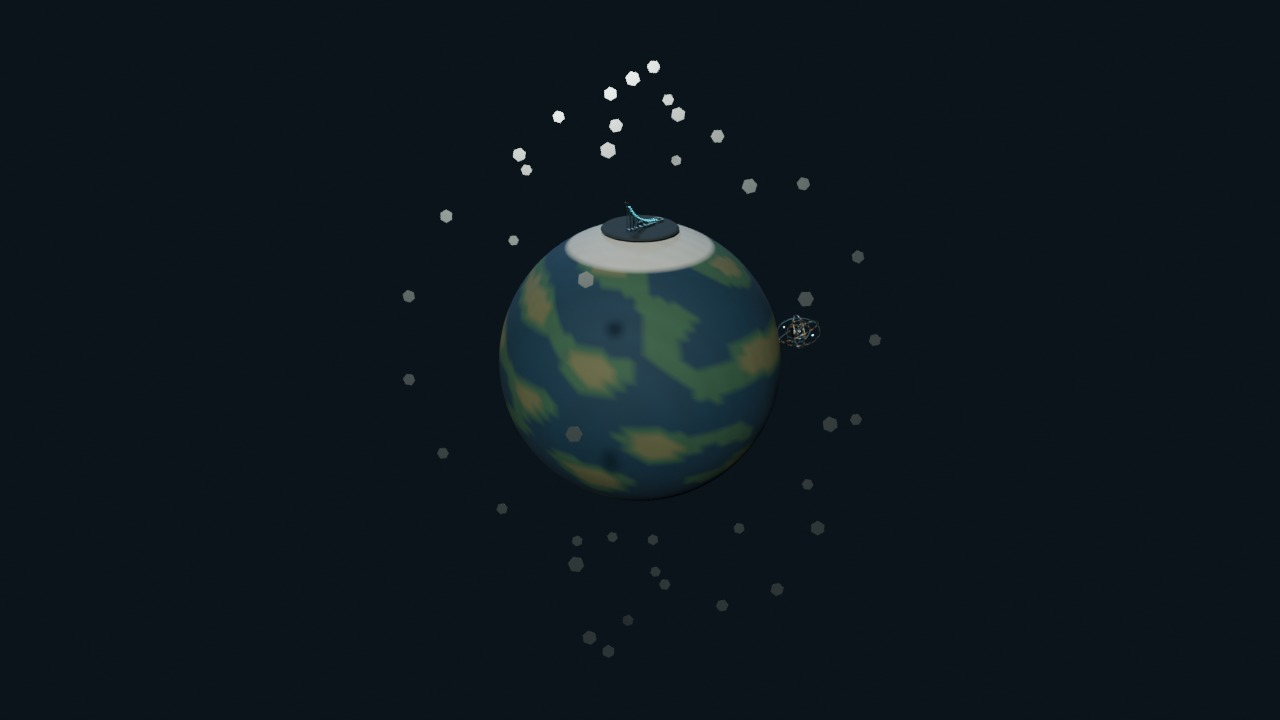
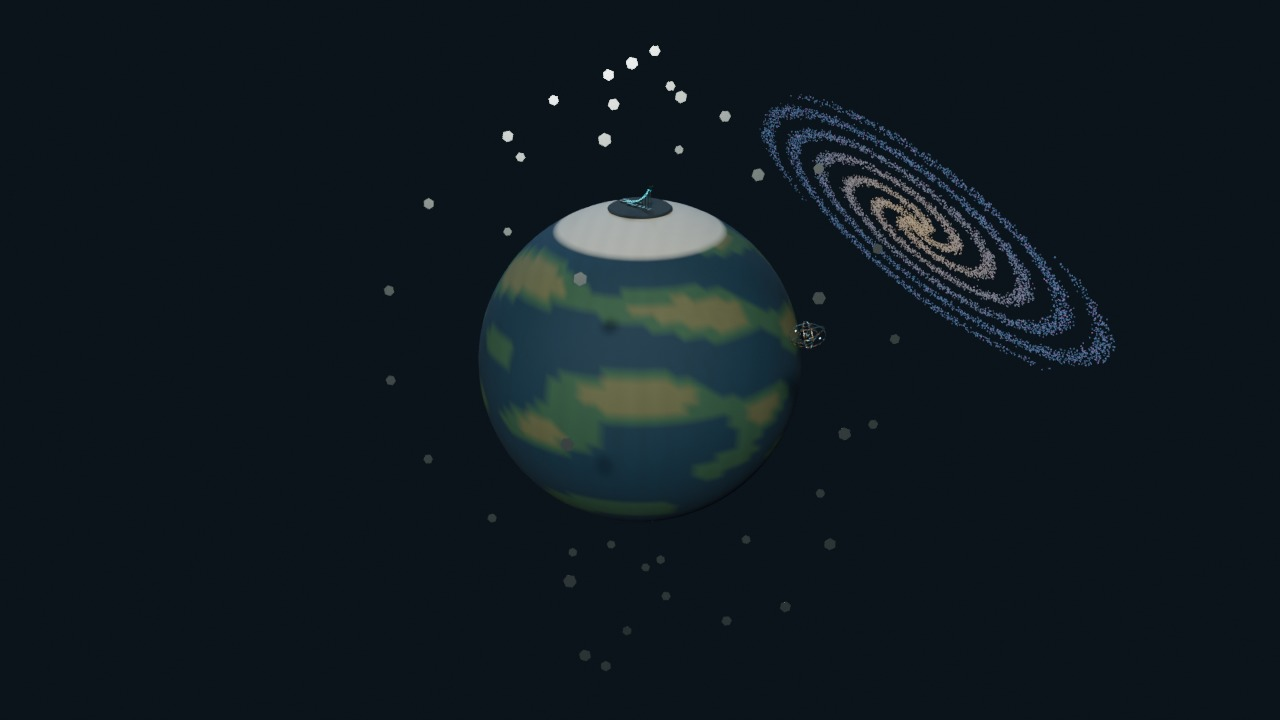
Enlarge cinematic planet and add straight launches rotation and distant galaxy

diff --git a/orbital-cinematic/scene.js b/orbital-cinematic/scene.js
@@ -1,22 +1,24 @@
+import {createGalaxy} from './galaxy.js?v=straight-launch-2';
 import {applyLaunch,launchState} from '../assets/orbital-launcher/runtime.js';
-import {cinematicState,CENTER,PLANET_RADIUS,MIRROR_COUNT,mirrorOrbit} from './timeline.js';
+import {cinematicState,CENTER,PLANET_RADIUS,MIRROR_COUNT,mirrorOrbit} from './timeline.js?v=straight-launch-2';
 export function createCinematic(T,{launcher,sol,solClips,mirror}){
  const scene=new T.Scene();scene.background=new T.Color(0x020610);const center=new T.Vector3(...CENTER),site=new T.Group();site.name='CINEMATIC_LAUNCH_SITE';scene.add(site);site.add(launcher);
  const sphere=new T.SphereGeometry(PLANET_RADIUS,96,64),positions=sphere.attributes.position,colors=new Float32Array(positions.count*3);for(let i=0;i<positions.count;i++){const n=new T.Vector3().fromBufferAttribute(positions,i).normalize(),v=Math.sin(n.x*6+Math.sin(n.z*5))*Math.cos(n.y*8-n.z*3)+Math.sin(n.y*15+n.x*4)*.5,land=v>.22,c=new T.Color(Math.abs(n.y)>.88?0xcbd9d8:land?v>.8?0x697354:0x366651:0x123d59);c.multiplyScalar(.9+Math.sin(n.x*31+n.z*47)*.035);colors.set(c.toArray(),i*3);}sphere.setAttribute('color',new T.BufferAttribute(colors,3));const planet=new T.Mesh(sphere,new T.MeshStandardMaterial({vertexColors:true,roughness:.82,metalness:.12}));planet.name='CINEMATIC_SMALL_PLANET';planet.position.copy(center);scene.add(planet);
  const atmosphere=new T.Mesh(new T.SphereGeometry(PLANET_RADIUS*1.025,64,48),new T.ShaderMaterial({vertexShader:'varying vec3 n;varying vec3 v;void main(){vec4 p=modelViewMatrix*vec4(position,1.0);n=normalize(normalMatrix*normal);v=normalize(-p.xyz);gl_Position=projectionMatrix*p;}',fragmentShader:'varying vec3 n;varying vec3 v;void main(){float a=pow(1.0-abs(dot(normalize(n),normalize(v))),3.0);gl_FragColor=vec4(.16,.58,.85,a*.32);}',transparent:true,side:T.BackSide,depthWrite:false,blending:T.AdditiveBlending}));atmosphere.name='CINEMATIC_ATMOSPHERE';atmosphere.position.copy(center);scene.add(atmosphere);
  const platform=new T.Mesh(new T.CylinderGeometry(35,37,1.6,64),new T.MeshStandardMaterial({color:0x26363e,roughness:.85,metalness:.25}));platform.position.y=-.81;site.add(platform);
  const stars=new Float32Array(1800*3);for(let i=0;i<1800;i++){const y=1-2*(i+.5)/1800,a=i*2.399963,r=Math.sqrt(1-y*y);stars.set([Math.cos(a)*r*1600,y*1600-140,Math.sin(a)*r*1600],i*3);}const starGeometry=new T.BufferGeometry();starGeometry.setAttribute('position',new T.BufferAttribute(stars,3));scene.add(new T.Points(starGeometry,new T.PointsMaterial({color:0xbad9ed,size:1.25,sizeAttenuation:false,transparent:true,opacity:.7})));
+ const galaxy=createGalaxy(T);scene.add(galaxy);
  const solRig=new T.Group();solRig.name='CINEMATIC_SOL88_PAYLOAD';solRig.add(sol);scene.add(solRig);const mixer=new T.AnimationMixer(sol),actions=new Map(solClips.map(c=>[c.name,mixer.clipAction(c)]));let active;
  mirror.updateMatrixWorld(true);const pitch=mirror.getObjectByName('MIRROR_PITCH'),parts=[];pitch.traverse(o=>{if(!o.isMesh)return;const g=o.geometry.clone();g.applyMatrix4(new T.Matrix4().copy(pitch.matrixWorld).invert().multiply(o.matrixWorld));parts.push({geometry:g,material:o.material.clone()});});const mirrorInstances=parts.map(({geometry,material})=>{const mesh=new T.InstancedMesh(geometry,material,MIRROR_COUNT);mesh.name='CINEMATIC_HEL01_'+material.name;mesh.instanceMatrix.setUsage(T.DynamicDrawUsage);mesh.frustumCulled=false;scene.add(mesh);return mesh;});const dockMirror=new T.Group();for(const p of parts)dockMirror.add(new T.Mesh(p.geometry,p.material));site.add(dockMirror);
- const paths=new T.Group();paths.name='CINEMATIC_ORBIT_GUIDES';for(let ring=0;ring<3;ring++){const points=Array.from({length:129},(_,i)=>{const angle=i/128*Math.PI*2,r=235+ring*24,tilt=[-.8,.15,.95][ring];return new T.Vector3(Math.cos(angle)*r*Math.cos(tilt),CENTER[1]+Math.sin(angle)*r,Math.cos(angle)*r*Math.sin(tilt));});const g=new T.BufferGeometry().setFromPoints(points);paths.add(new T.Line(g,new T.LineBasicMaterial({color:0x507b94,transparent:true,opacity:.15,depthWrite:false})));}scene.add(paths);
+ const paths=new T.Group();paths.name='CINEMATIC_ORBIT_GUIDES';for(let ring=0;ring<3;ring++){const points=Array.from({length:129},(_,i)=>{const angle=i/128*Math.PI*2,r=310+ring*26,tilt=[-.8,.15,.95][ring];return new T.Vector3(Math.cos(angle)*r*Math.cos(tilt),CENTER[1]+Math.sin(angle)*r,Math.cos(angle)*r*Math.sin(tilt));});const g=new T.BufferGeometry().setFromPoints(points);paths.add(new T.Line(g,new T.LineBasicMaterial({color:0x507b94,transparent:true,opacity:.15,depthWrite:false})));}scene.add(paths);
  const trailGeometry=new T.BufferGeometry();trailGeometry.setAttribute('position',new T.BufferAttribute(new Float32Array(MIRROR_COUNT*6),3));const trails=new T.LineSegments(trailGeometry,new T.LineBasicMaterial({color:0x94ecff,transparent:true,opacity:.65}));trails.frustumCulled=false;scene.add(trails);
  const beam=new T.Group();for(const [radius,opacity] of [[.18,1],[.72,.18],[1.5,.045]])beam.add(new T.Mesh(new T.CylinderGeometry(radius,radius,1,16,1,true),new T.MeshBasicMaterial({color:0x8deeff,transparent:true,opacity,blending:T.AdditiveBlending,depthWrite:false})));scene.add(beam);
  const impact=new T.Mesh(new T.SphereGeometry(1.7,20,12),new T.MeshBasicMaterial({color:0xc2fbff,transparent:true,blending:T.AdditiveBlending,depthWrite:false}));scene.add(impact);const dummy=new T.Object3D();
- function update(seconds){const state=cinematicState(seconds),t=state.time;applyLaunch(T,launcher,null,state.arcTime,1);solRig.position.fromArray(state.solPosition);solRig.scale.setScalar(state.solScale);const alignment=new T.Quaternion().setFromUnitVectors(new T.Vector3(0,-1,0),center.clone().sub(solRig.position).normalize());solRig.quaternion.setFromEuler(new T.Euler(state.launch.payload.pitch,0,0));solRig.quaternion.slerp(alignment,Math.max(0,Math.min(1,(t-17)/6)));
+ function update(seconds){const state=cinematicState(seconds),t=state.time;applyLaunch(T,launcher,null,state.arcTime,1);planet.rotation.y=state.planetAngle;site.rotation.y=state.planetAngle;solRig.visible=state.solVisible;solRig.position.fromArray(state.solPosition);solRig.scale.setScalar(state.solScale);const alignment=new T.Quaternion().setFromUnitVectors(new T.Vector3(0,-1,0),center.clone().sub(solRig.position).normalize());solRig.quaternion.setFromEuler(new T.Euler(state.launch.payload.pitch,state.planetAngle,0));solRig.quaternion.slerp(alignment,Math.max(0,Math.min(1,(t-17)/6)));
  if(active!==state.clip){mixer.stopAllAction();active=state.clip;actions.get(active).reset().setLoop(T.LoopOnce,1).play();actions.get(active).clampWhenFinished=true;}actions.get(active).time=state.clipTime;mixer.update(0);solRig.updateMatrixWorld(true);
  beam.visible=impact.visible=state.beam;if(state.beam){const aperture=sol.getObjectByName('APERTURE'),origin=aperture.getWorldPosition(new T.Vector3()),direction=new T.Vector3(0,-1,0).applyQuaternion(aperture.getWorldQuaternion(new T.Quaternion())).normalize(),offset=origin.clone().sub(center),b=offset.dot(direction),disc=b*b-offset.lengthSq()+PLANET_RADIUS**2,length=disc>0?-b-Math.sqrt(disc):150;beam.position.copy(origin).addScaledVector(direction,length/2);beam.quaternion.setFromUnitVectors(new T.Vector3(0,1,0),direction);beam.scale.set(1,length,1);beam.children.forEach((o,i)=>o.material.opacity=[1,.18,.045][i]*state.beamPower);impact.position.copy(origin).addScaledVector(direction,length);impact.scale.setScalar(.8+Math.sin(t*19)*.08);impact.material.opacity=state.beamPower;}
- paths.visible=t>=55;const before=cinematicState(Math.max(0,t-.14)),array=trailGeometry.attributes.position.array;state.mirrors.forEach((m,i)=>{dummy.position.fromArray(m.position);dummy.quaternion.setFromUnitVectors(new T.Vector3(0,0,1),new T.Vector3(1,.55,1).normalize());dummy.rotateZ(i*.41+t*.025);dummy.scale.setScalar(m.visible?m.scale:0);dummy.updateMatrix();mirrorInstances.forEach(mesh=>mesh.setMatrixAt(i,dummy.matrix));const previous=before.mirrors[i];array.set(m.visible&&!m.deployed?previous.position:m.position,i*6);array.set(m.position,i*6+3);});mirrorInstances.forEach(mesh=>mesh.instanceMatrix.needsUpdate=true);trailGeometry.attributes.position.needsUpdate=true;
- dockMirror.visible=t>=51&&t<83; if(dockMirror.visible){const cycle=((Math.max(0,t-52))%.65),localTime=cycle<.22?cycle/.22*8:cycle<.4?8+(cycle-.22)/.18*.4:8.4+(cycle-.4)/.25*21.6,s=applyLaunch(T,launcher,null,localTime,1);dockMirror.visible=cycle<.4;dockMirror.position.fromArray(s.payload.position);dockMirror.position.y+=.55;dockMirror.rotation.set(s.payload.pitch+Math.PI/2,0,0);dockMirror.scale.setScalar(.2);}
+ paths.visible=t>=55;const before=cinematicState(Math.max(0,t-.14)),array=trailGeometry.attributes.position.array;state.mirrors.forEach((m,i)=>{dummy.position.fromArray(m.position);dummy.quaternion.setFromUnitVectors(new T.Vector3(0,0,1),new T.Vector3(1,.55,1).normalize());dummy.rotateZ(i*.41+t*.025);dummy.scale.setScalar(m.visible?m.scale:0);dummy.updateMatrix();mirrorInstances.forEach(mesh=>mesh.setMatrixAt(i,dummy.matrix));const previous=before.mirrors[i];array.set(m.launching?previous.position:m.position,i*6);array.set(m.position,i*6+3);});mirrorInstances.forEach(mesh=>mesh.instanceMatrix.needsUpdate=true);trailGeometry.attributes.position.needsUpdate=true;
+ dockMirror.visible=t>=51&&t<83; if(dockMirror.visible){const cycle=((Math.max(0,t-52))%.65),localTime=cycle<.22?cycle/.22*8:cycle<.4?8+(cycle-.22)/.18*.4:8.4+(cycle-.4)/.25*21.6,s=applyLaunch(T,launcher,null,localTime,1);dockMirror.visible=cycle<.4;dockMirror.position.fromArray(s.payload.position);dockMirror.position.add(new T.Vector3(0,.43,0).applyAxisAngle(new T.Vector3(1,0,0),s.payload.pitch));dockMirror.rotation.set(s.payload.pitch+Math.PI/2,0,0);dockMirror.scale.setScalar(.2);}
  return state;}
- update(0);return {scene,update,planet,atmosphere,site,launcher,sol,solRig,mixer,mirrorInstances,beam,impact,paths,trails};
+ update(0);return {scene,update,planet,atmosphere,galaxy,site,launcher,sol,solRig,mixer,mirrorInstances,beam,impact,paths,trails};
 }

diff --git a/orbital-cinematic/timeline.js b/orbital-cinematic/timeline.js
@@ -1,20 +1,23 @@
 // Deterministic presentation choreography. Units/scales are cinematic, not orbital physics.
 import {launchState,extensionPose} from '../assets/orbital-launcher/runtime.js';
-export const DURATION=100,PLANET_RADIUS=140,MIRROR_COUNT=48;
+export const DURATION=100,PLANET_RADIUS=195,MIRROR_COUNT=48;
 export const CHAPTERS=[{time:0,label:'01 · ARC-01 launch'},{time:16,label:'02 · Small world'},{time:27,label:'03 · SOL-88 revealed'},{time:35,label:'04 · Laser test'},{time:52,label:'05 · HEL-01 launches'},{time:83,label:'06 · Orbital constellation'}];
 export const clamp=x=>Math.max(0,Math.min(1,x));export const smooth=(t,a,b)=>{const u=clamp((t-a)/(b-a));return u*u*(3-2*u);};const mix=(a,b,u)=>a.map((v,i)=>v+(b[i]-v)*u);
 export const CENTER=[0,-PLANET_RADIUS,0];
-export function orbitPosition(angle,radius=285,tilt=.52){return [Math.sin(angle)*radius,CENTER[1]+Math.cos(angle)*radius*Math.cos(tilt),Math.cos(angle)*radius*Math.sin(tilt)];}
-export function mirrorOrbit(i,t){const ring=i%3,slot=Math.floor(i/3),angle=slot/16*Math.PI*2+(t-52)*(.011+ring*.002),r=235+ring*24,tilt=[-.8,.15,.95][ring],p=[Math.cos(angle)*r,Math.sin(angle)*r,0];return [p[0]*Math.cos(tilt),CENTER[1]+p[1],p[0]*Math.sin(tilt)];}
-export function flightPosition(start,end,u){const a=start.map((v,i)=>v-CENTER[i]),b=end.map((v,i)=>v-CENTER[i]),ra=Math.hypot(...a),rb=Math.hypot(...b),na=a.map(v=>v/ra),nb=b.map(v=>v/rb),dot=Math.max(-1,Math.min(1,na.reduce((s,v,i)=>s+v*nb[i],0))),angle=Math.acos(dot);let direction;if(angle<.001)direction=na;else if(dot<-.995){const tangent=[na[1],-na[0],0],n=Math.hypot(...tangent)||1;direction=na.map((v,i)=>v*Math.cos(Math.PI*u)+tangent[i]/n*Math.sin(Math.PI*u));}else direction=na.map((v,i)=>(v*Math.sin((1-u)*angle)+nb[i]*Math.sin(u*angle))/Math.sin(angle));const radius=ra+(rb-ra)*u+Math.sin(u*Math.PI)*45;return direction.map((v,i)=>CENTER[i]+v*radius);}
-export function cinematicState(seconds){if(!Number.isFinite(seconds))throw Error('Time must be finite');const t=Math.max(0,Math.min(DURATION,seconds)),arcTime=t<6?t/6*8:t<6.8?8+(t-6)/.8*.4:8.4+(t-6.8),launch=launchState(Math.min(30,arcTime)),exit=extensionPose(0),u=smooth(t,6.8,23),dest=orbitPosition(.34+(Math.max(23,t)-23)*.009),start=exit.position.map((v,i)=>v+(i===1?.43*Math.cos(exit.pitch):i===2?.43*Math.sin(exit.pitch):0));let solPosition=t<6.8?launch.payload.position.map((v,i)=>v+(i===1?.43*Math.cos(launch.payload.pitch):i===2?.43*Math.sin(launch.payload.pitch):0)):mix(start,dest,u);
-// A convex arc raises the payload above the surface before it approaches orbit.
-if(t>=6.8&&t<23)solPosition[1]+=Math.sin(u*Math.PI)*45;
+export function orbitPosition(angle,radius=365,tilt=.52){return [Math.sin(angle)*radius,CENTER[1]+Math.cos(angle)*radius*Math.cos(tilt),Math.cos(angle)*radius*Math.sin(tilt)];}
+export function mirrorOrbit(i,t){const ring=i%3,slot=Math.floor(i/3),angle=slot/16*Math.PI*2+(t-52)*(.011+ring*.002),r=310+ring*26,tilt=[-.8,.15,.95][ring],p=[Math.cos(angle)*r,Math.sin(angle)*r,0];return [p[0]*Math.cos(tilt),CENTER[1]+p[1],p[0]*Math.sin(tilt)];}
+export const SOL_RELEASE=6.8,SOL_SPEED=108,MIRROR_SPEED=470,LAUNCH_VISIBLE_SECONDS=.85;
+// Payloads leave in a straight, vertical, constant-speed shot. Orbital insertion
+// occurs off-screen; the separate reveal never bends or eases a launched payload.
+export function planetAngle(t){return Math.max(0,t-7)*.018;}
+export function launchOrigin(releaseTime){const exit=extensionPose(0),a=planetAngle(releaseTime),z=exit.position[2]+.43*Math.sin(exit.pitch);return [Math.sin(a)*z,exit.position[1]+.43*Math.cos(exit.pitch),Math.cos(a)*z];}
+export function straightFlight(releaseTime,time,speed){const p=launchOrigin(releaseTime);p[1]+=Math.max(0,time-releaseTime)*speed;return p;}
+export function cinematicState(seconds){if(!Number.isFinite(seconds))throw Error('Time must be finite');const t=Math.max(0,Math.min(DURATION,seconds)),arcTime=t<6?t/6*8:t<SOL_RELEASE?8+(t-6)/.8*.4:8.4+(t-SOL_RELEASE),launch=launchState(Math.min(30,arcTime)),dest=orbitPosition(.34+(Math.max(23,t)-23)*.009),angle=planetAngle(t);let solPosition;if(t<SOL_RELEASE){const p=launch.payload.position.map((v,i)=>v+(i===1?.43*Math.cos(launch.payload.pitch):i===2?.43*Math.sin(launch.payload.pitch):0));solPosition=[Math.sin(angle)*p[2],p[1],Math.cos(angle)*p[2]];}else solPosition=t<23?straightFlight(SOL_RELEASE,t,SOL_SPEED):dest;
 let clip='Idle_Cycle',clipTime=t%24;if(t>=30&&t<34){clip='Convergence';clipTime=t-30;}else if(t>=34&&t<44){clip='Firing_Cycle';clipTime=t-34;}else if(t>=44&&t<49){clip='Recovery';clipTime=t-44;}
-const mirrors=Array.from({length:MIRROR_COUNT},(_,i)=>{const launchAt=52.4+i*.65,flight=clamp((t-launchAt)/5),visible=t>=launchAt;const end=mirrorOrbit(i,t),f=smooth(flight,0,1),p=flightPosition(start,end,f);return {index:i,visible,deployed:flight>=1,flight,position:p,scale:.2+smooth(flight,0,1)*3.8};});
-const deployed=mirrors.filter(m=>m.deployed).length,inFlight=mirrors.filter(m=>m.visible&&!m.deployed).length;
+const mirrors=Array.from({length:MIRROR_COUNT},(_,i)=>{const launchAt=52.4+i*.65,age=t-launchAt,flight=clamp(age/5),deployed=age>=5,launching=age>=0&&age<LAUNCH_VISIBLE_SECONDS,visible=launching||deployed;return {index:i,launchAt,age,visible,launching,deployed,flight,position:deployed?mirrorOrbit(i,t):straightFlight(launchAt,t,MIRROR_SPEED),scale:deployed?4*smooth(age,5,5.55):.2};});
+const deployed=mirrors.filter(m=>m.deployed).length,inFlight=mirrors.filter(m=>m.age>=0&&!m.deployed).length;
 let camera=[62,38,70],target=[0,10,0];
-if(t<7){const k=smooth(t,0,7);camera=mix(camera,[48,30,53],k);target=mix(target,[0,14,7],k);}else if(t<24){const k=smooth(t,7,24);camera=mix([48,30,53],[350,200,490],k);target=mix([0,14,7],CENTER,k);}else if(t<30){const k=smooth(t,24,30),close=solPosition.map((v,i)=>v+[57,22,74][i]);camera=mix([350,200,490],close,k);target=mix(CENTER,solPosition,k);}else if(t<45){camera=solPosition.map((v,i)=>v+[57,22,74][i]);target=[...solPosition];if(t>=36){const k=smooth(t,36,41);camera=mix(camera,[230,140,360],k);target=mix(solPosition,mix(solPosition,CENTER,.38),k);}}else if(t<53){const k=smooth(t,45,53);camera=mix([230,140,360],[68,42,75],k);target=mix(mix(solPosition,CENTER,.38),[0,16,0],k);}else{const k=smooth(t,55,86);camera=mix([68,42,75],[500,280,680],k);target=mix([0,16,0],CENTER,k);if(t>86){const a=(t-86)*.016,x=camera[0],z=camera[2];camera[0]=x*Math.cos(a)+z*Math.sin(a);camera[2]=-x*Math.sin(a)+z*Math.cos(a);}}
+if(t<7){const k=smooth(t,0,7);camera=mix(camera,[48,30,53],k);target=mix(target,[0,14,7],k);}else if(t<24){const k=smooth(t,7,24);camera=mix([48,30,53],[370,190,500],k);target=mix([0,14,7],CENTER,k);}else if(t<30){const k=smooth(t,24,30),close=solPosition.map((v,i)=>v+[57,22,74][i]);camera=mix([370,190,500],close,k);target=mix(CENTER,solPosition,k);}else if(t<45){camera=solPosition.map((v,i)=>v+[57,22,74][i]);target=[...solPosition];if(t>=36){const k=smooth(t,36,41);camera=mix(camera,[230,140,360],k);target=mix(solPosition,mix(solPosition,CENTER,.38),k);}}else if(t<53){const k=smooth(t,45,53);camera=mix([230,140,360],[68,42,75],k);target=mix(mix(solPosition,CENTER,.38),[0,16,0],k);}else{const k=smooth(t,55,86);camera=mix([68,42,75],[610,330,820],k);target=mix([0,16,0],CENTER,k);if(t>86){const a=(t-86)*.016,x=camera[0],z=camera[2];camera[0]=x*Math.cos(a)+z*Math.sin(a);camera[2]=-x*Math.sin(a)+z*Math.cos(a);}}
 const phase=t<6?'ARC-01 · charge and load':t<7?'Launch / SOL-88 payload':t<24?'Leaving the surface':t<30?'SOL-88 / Syzygy':t<34?'Cages converging':t<44?'SOL-88 / ten-second laser test':t<49?'Optics closed / thermal recovery':t<57?'HEL-01 / first mirror launches':t<88?'Building the orbital constellation':'48 HEL-01 mirrors / deployment complete';
-return {time:t,arcTime:Math.min(30,arcTime),launch,solPosition,solScale:.045+u*.755,solOrbit:t>=23,clip,clipTime,beam:t>=34&&t<44,beamPower:smooth(t,34,34.5)*(1-smooth(t,43.5,44)),mirrors,deployed,inFlight,camera,target,phase,chapter:CHAPTERS.filter(c=>c.time<=t).at(-1)};
+return {time:t,arcTime:Math.min(30,arcTime),launch,solPosition,planetAngle:angle,solScale:t<23?.045:.8*smooth(t,23,24),solVisible:t<10.8||t>=23,solOrbit:t>=23,clip,clipTime,beam:t>=34&&t<44,beamPower:smooth(t,34,34.5)*(1-smooth(t,43.5,44)),mirrors,deployed,inFlight,camera,target,phase,chapter:CHAPTERS.filter(c=>c.time<=t).at(-1)};
 }

diff --git a/orbital-cinematic/index.html b/orbital-cinematic/index.html
@@ -1,3 +1,3 @@
 <!doctype html><html lang="en"><head><meta charset="utf-8"><meta name="viewport" content="width=device-width,initial-scale=1"><title>First Light / Orbital cinematic</title><link rel="stylesheet" href="../workshop/navigation.css"><style>
 :root{color-scheme:dark;font-family:system-ui,sans-serif;background:#030810;color:#eaf5ff}*{box-sizing:border-box}body{margin:0}.asset-heading{display:flex;justify-content:space-between;align-items:center;padding:12px 24px;background:#08131e}h1{font-size:18px;letter-spacing:3px;margin:0}h1 span{font-weight:400;color:#9ab2c9;font-size:12px;letter-spacing:1px}.asset-heading a{color:#b7cedf;font-size:12px}#stage{height:calc(100dvh - 270px);min-height:380px;position:relative;overflow:hidden;background:#030810}canvas{display:block;width:100%;height:100%}.title{position:absolute;left:5%;top:8%;pointer-events:none}.title small{display:block;color:#8acbdb;font-size:11px;letter-spacing:4px}#phase{font-size:clamp(18px,3vw,36px);font-weight:350;letter-spacing:-.8px;max-width:600px;margin-top:10px}.telemetry{position:absolute;bottom:34px;right:5%;text-align:right;font:11px/1.9 ui-monospace,monospace;color:#a8d3e0;letter-spacing:1px}#loading{position:absolute;inset:0;display:grid;place-content:center;text-align:center;background:#07111deb;z-index:3}#loading[hidden]{display:none}#loading p{max-width:450px;color:#a5c0d2;font-size:13px}button,select{border:1px solid #355267;background:#142635;color:#dff5ff;border-radius:5px;padding:9px 13px;font:inherit;font-size:12px;cursor:pointer}button.primary{background:#87dbe9;color:#082431;border:0;font-weight:650}button:disabled{opacity:.4;cursor:default}.controls{padding:14px 24px;background:#08131e}.row{display:flex;align-items:center;gap:10px;flex-wrap:wrap}.timeline{display:flex;align-items:center;gap:14px;margin-bottom:12px}input[type=range]{width:100%;accent-color:#89dce7}output{white-space:nowrap;font:12px ui-monospace,monospace;color:#adc5d6}.controls label,.controls a{font-size:12px;color:#abc2d1}.spacer{flex:1}#note{font-size:11px;color:#708fa7;margin:9px 0 0}.chapter{min-width:230px}#stats{color:#6e91a7;font-size:11px}.fullscreen #stage{height:100vh}#stage:fullscreen{height:100vh}.sr-only{position:absolute;width:1px;height:1px;overflow:hidden;clip:rect(0,0,0,0)}@media(max-width:650px){#stage{height:62vh;min-height:380px}.asset-heading{padding:12px}h1 span{display:block;margin-top:5px}.controls{padding:12px}.title{top:6%}.telemetry{bottom:18px;font-size:10px}.spacer{display:none}.chapter{min-width:180px}}
-</style><script type="importmap">{"imports":{"three":"https://cdn.jsdelivr.net/npm/three@0.180.0/build/three.module.js","three/addons/":"https://cdn.jsdelivr.net/npm/three@0.180.0/examples/jsm/"}}</script></head><body class="workshop-viewer"><header class="workshop-header"><a class="workshop-home" href="../">← Back to Workshop</a><nav class="workshop-tabs" aria-label="Workshop navigation"><a href="../" aria-current="page">Workshop</a><a href="../devlog/">Devlog</a><a href="../roadmap/">Roadmap</a><a href="../readiness/">Readiness</a><a href="../best-practices/">Best Practices</a></nav></header><section class="asset-heading" aria-label="Asset title"><h1>FIRST LIGHT <span>/ AN ORBITAL CINEMATIC</span></h1><a href="../orbital-launcher/">Inspect ARC-01 ↗</a></section><main><div id="stage"><div class="title"><small id="chapterTitle">01 / SURFACE</small><div id="phase">Preparing the launch</div></div><div class="telemetry"><div id="count">HEL-01 IN ORBIT / 00</div><div id="flight">PAYLOAD / SOL-88</div></div><div id="loading"><h2>Preparing First Light</h2><p id="status">Loading ARC-01, SOL-88 and HEL-01…</p><button id="retry" hidden>Retry loading</button></div></div><div class="controls"><div class="timeline"><label class="sr-only" for="timeline">Cinematic time</label><input id="timeline" type="range" min="0" max="100" step=".05" value="0" disabled><output id="time">00:00 / 01:40</output></div><div class="row"><button id="play" class="primary" disabled>Play cinematic</button><button id="restart" disabled>Restart</button><label for="chapter">Jump to</label><select id="chapter" class="chapter" disabled></select><label for="speed">Speed</label><select id="speed"><option value=".5">0.5×</option><option value="1" selected>1×</option><option value="2">2×</option></select><label><input id="freeCamera" type="checkbox">Free camera</label><button id="fullscreen">Fullscreen</button><span class="spacer"></span><span id="stats"></span></div><p id="note">A staged 100-second sequence · starts paused · illustrative planet and payload scales · Models by jelaludo</p></div></main><script type="module" src="viewer.js"></script></body><script type="module" src="../workshop/navigation.js"></script></html>
+</style><script type="importmap">{"imports":{"three":"https://cdn.jsdelivr.net/npm/three@0.180.0/build/three.module.js","three/addons/":"https://cdn.jsdelivr.net/npm/three@0.180.0/examples/jsm/"}}</script></head><body class="workshop-viewer"><header class="workshop-header"><a class="workshop-home" href="../">← Back to Workshop</a><nav class="workshop-tabs" aria-label="Workshop navigation"><a href="../" aria-current="page">Workshop</a><a href="../devlog/">Devlog</a><a href="../roadmap/">Roadmap</a><a href="../readiness/">Readiness</a><a href="../best-practices/">Best Practices</a></nav></header><section class="asset-heading" aria-label="Asset title"><h1>FIRST LIGHT <span>/ AN ORBITAL CINEMATIC</span></h1><a href="../orbital-launcher/">Inspect ARC-01 ↗</a></section><main><div id="stage"><div class="title"><small id="chapterTitle">01 / SURFACE</small><div id="phase">Preparing the launch</div></div><div class="telemetry"><div id="count">HEL-01 IN ORBIT / 00</div><div id="flight">PAYLOAD / SOL-88</div></div><div id="loading"><h2>Preparing First Light</h2><p id="status">Loading ARC-01, SOL-88 and HEL-01…</p><button id="retry" hidden>Retry loading</button></div></div><div class="controls"><div class="timeline"><label class="sr-only" for="timeline">Cinematic time</label><input id="timeline" type="range" min="0" max="100" step=".05" value="0" disabled><output id="time">00:00 / 01:40</output></div><div class="row"><button id="play" class="primary" disabled>Play cinematic</button><button id="restart" disabled>Restart</button><label for="chapter">Jump to</label><select id="chapter" class="chapter" disabled></select><label for="speed">Speed</label><select id="speed"><option value=".5">0.5×</option><option value="1" selected>1×</option><option value="2">2×</option></select><label><input id="freeCamera" type="checkbox">Free camera</label><button id="fullscreen">Fullscreen</button><span class="spacer"></span><span id="stats"></span></div><p id="note">A staged 100-second sequence · starts paused · illustrative planet and payload scales · Models by jelaludo</p></div></main><script type="module" src="viewer.js?v=straight-launch-2"></script></body><script type="module" src="../workshop/navigation.js"></script></html>

diff --git a/devlog/index.html b/devlog/index.html
@@ -12,6 +12,9 @@
 <ol start="14"><li><strong>MÖRK customization — workshop candidate delivered; game integration pending.</strong> Integrate appearance recipes, persistence/network state and texture reuse; verify r160, release gltfpack paint-role retention, game cameras, mobile and reference-phone performance.</li></ol>
 <ol start="15"><li><strong>All 33 sentries — three-tier candidate delivered; game review pending.</strong> Review r160/release compression, game cameras/mobile, Heptapod rigid-assembly draw cost and phone performance. Static LOD2 is optional for loading/map previews, not active aiming.</li></ol>
 <p>The game may continue using its own derived far tiers until the new candidates pass game-side review. Those game-side files are separate derivatives, not the authored exports in this library. The game developer&#x27;s original notes are retained in <a href="../docs/ASSET-COLLABORATION.md">ASSET-COLLABORATION.md</a>.</p>
+<h2>25 September 2026 / First Light scale and launch revision</h2>
+<p>Enlarged the cinematic planet from radius 140 to 195 and adjusted wide framing. Removed eased, curved launch-to-orbit travel: SOL-88 and every HEL-01 now leave in straight vertical, constant-speed shots without slowing at release. Orbital arrivals follow off-screen transfer rather than bending the visible launch. The planet and polar launch site rotate beneath the released payloads; a fixed, original procedural spiral galaxy adds a distant perspective reference.</p>
+<p>Added regression checks for launch speed/straightness, planet/site rotation, fixed galaxy placement and visibility in wide shots, while retaining beam, deployment, reset and clearance checks. Updated the review poster and cache versions. Original GLBs are unchanged; dimensions/timing remain cinematic presentation choices. Mobile/device performance review remains pending.</p>
 <h2>25 September 2026 / First Light orbital cinematic</h2>
 <p>Added a separate 100-second cinematic tab linked from ARC-01, SOL-88 and the Workshop catalog. Starts with the curved launcher, follows SOL-88 into a small-planet reveal, animates the original Syzygy cages/optics and performs a gated ten-second laser test. Repeated launches then deploy 48 HEL-01 reflector heads into three orbital rings before a final wide camera orbit.</p>
 <p>Reuses detailed ARC-01/SOL-88 and the HEL-01 game reflector geometry; originals and their canonical dimensions remain unchanged. Planet, atmosphere, stars, laser and launch trails are procedural presentation elements. Payload scaling, repeated launch timing and orbital paths are staged. The 48 mirror heads use two instanced draws; no FPS claim. The orbital adaptation excludes HEL-01&#x27;s ground pedestal.</p>

diff --git a/orbital-cinematic/galaxy.js b/orbital-cinematic/galaxy.js
@@ -1,0 +1,9 @@
+// Original procedural spiral galaxy: a fixed distant perspective reference.
+export function createGalaxy(T){
+ const galaxy=new T.Group();galaxy.name='CINEMATIC_DISTANT_GALAXY';galaxy.position.set(-700,-650,-1900);galaxy.rotation.set(.22,-.12,-.32);
+ const count=11000,position=new Float32Array(count*3),color=new Float32Array(count*3),sizes=new Float32Array(count);let seed=8817;const random=()=>{seed=(Math.imul(seed,1664525)+1013904223)>>>0;return seed/4294967296;};
+ for(let i=0;i<count;i++){const r=Math.pow(random(),.72),arm=i%4,angle=arm*Math.PI/2+r*8.5+(random()-.5)*(.18+r*.52),radius=r*720,x=Math.cos(angle)*radius+(random()-.5)*35,y=Math.sin(angle)*radius*.36+(random()-.5)*13,z=(random()-.5)*25*(1-r);position.set([x,y,z],i*3);const c=new T.Color(0xffe2b3).lerp(new T.Color(i%7===0?0xc59af1:0x759fd8),Math.min(1,r*1.4));c.multiplyScalar(.5+random()*.5);color.set(c.toArray(),i*3);sizes[i]=1+random()*2.5;}
+ const geometry=new T.BufferGeometry();geometry.setAttribute('position',new T.BufferAttribute(position,3));geometry.setAttribute('color',new T.BufferAttribute(color,3));geometry.setAttribute('pointSize',new T.BufferAttribute(sizes,1));
+ const material=new T.ShaderMaterial({vertexColors:true,transparent:true,depthWrite:false,blending:T.AdditiveBlending,vertexShader:'attribute float pointSize;varying vec3 tint;void main(){tint=color;gl_Position=projectionMatrix*modelViewMatrix*vec4(position,1.0);gl_PointSize=pointSize;}',fragmentShader:'varying vec3 tint;void main(){vec2 p=gl_PointCoord-.5;float a=exp(-dot(p,p)*18.0)*.52;gl_FragColor=vec4(tint,a);}'});galaxy.add(new T.Points(geometry,material));
+ const glow=new T.Mesh(new T.PlaneGeometry(1000,390),new T.ShaderMaterial({transparent:true,depthWrite:false,side:T.DoubleSide,blending:T.AdditiveBlending,vertexShader:'varying vec2 uv0;void main(){uv0=uv;gl_Position=projectionMatrix*modelViewMatrix*vec4(position,1.0);}',fragmentShader:'varying vec2 uv0;void main(){vec2 p=(uv0-.5)*2.0;float r=dot(p,p);float core=exp(-r*24.0);float halo=exp(-r*4.5);vec3 c=mix(vec3(.3,.42,.7),vec3(1.,.86,.63),core);gl_FragColor=vec4(c,core*.48+halo*.045);}'}));glow.position.z=-2;galaxy.add(glow);return galaxy;
+}

diff --git a/orbital-cinematic/viewer.js b/orbital-cinematic/viewer.js
@@ -2,8 +2,8 @@ import * as T from 'three';
 import {GLTFLoader} from 'three/addons/loaders/GLTFLoader.js';
 import {OrbitControls} from 'three/addons/controls/OrbitControls.js';
 import {RoomEnvironment} from 'three/addons/environments/RoomEnvironment.js';
-import {createCinematic} from './scene.js';
-import {DURATION,CHAPTERS} from './timeline.js';
+import {createCinematic} from './scene.js?v=straight-launch-2';
+import {DURATION,CHAPTERS} from './timeline.js?v=straight-launch-2';
 const $=id=>document.getElementById(id),stage=$('stage'),renderer=new T.WebGLRenderer({antialias:true});renderer.setPixelRatio(Math.min(devicePixelRatio,2));renderer.toneMapping=T.ACESFilmicToneMapping;renderer.toneMappingExposure=1.1;stage.prepend(renderer.domElement);const camera=new T.PerspectiveCamera(42,1,.1,4000),controls=new OrbitControls(camera,renderer.domElement);controls.enabled=false;controls.minDistance=3;controls.maxDistance=1600;const loader=new GLTFLoader();let world,time=0,playing=false,last=performance.now(),ready=false,generation=0,w=0,h=0;
 const clock=s=>String(Math.floor(s/60)).padStart(2,'0')+':'+String(Math.floor(s%60)).padStart(2,'0');
 for(const chapter of CHAPTERS)$('chapter').add(new Option(chapter.label,chapter.time));

diff --git a/orbital-cinematic/README.md b/orbital-cinematic/README.md
@@ -1,27 +1,27 @@
 # First Light — orbital cinematic
 
-A separate Workshop tab presents a deterministic 100-second scene: ARC-01 launches SOL-88, the camera pulls back to reveal a small planet, Syzygy animates and performs a ten-second laser test, then repeated HEL-01 launches build a 48-mirror orbital constellation.
+A separate Workshop tab presents a deterministic 100-second scene: ARC-01 launches SOL-88, the camera pulls back to reveal a larger rotating planet against a distant spiral galaxy, Syzygy animates and performs a ten-second laser test, then repeated HEL-01 launches build a 48-mirror orbital constellation.
 
 Open from the **First Light cinematic** link in ARC-01 or SOL-88; both links open a separate browser tab. The Workshop catalog also lists the scene. Playback starts paused. Controls include play/pause, restart, continuous scrub, six chapter jumps, half/normal/double speed, free camera and fullscreen. Space toggles playback outside form controls; hiding the browser tab pauses it. Scrubbing derives every pose and count from time, including backward jumps.
 
 | Time | Scene |
 | --- | --- |
 | 0–6.8 s | Close shot of charging/loading and SOL-88 acceleration along ARC-01 |
-| 6.8–24 s | Payload rises; camera pulls away to reveal the small planet |
+| 6.8–24 s | SOL-88 shoots vertically at constant speed and leaves the shot; camera reveals the rotating planet; orbital SOL-88 appears from 23 s |
 | 24–30 s | Camera approaches SOL-88; the containment cages identify the payload |
 | 30–34 s | Original Convergence clip aligns the optical engine |
 | 34–44 s | Original Firing_Cycle clip and a gated ten-second beam terminating at the planet |
 | 44–52 s | Recovery, then camera returns toward the launcher |
-| 52.4–87.95 s | Forty-eight HEL-01 reflector heads launch successively, travel and join three orbit rings |
+| 52.4–87.95 s | Forty-eight HEL-01 reflector heads shoot vertically, transfer off-screen, then deploy into three orbit rings |
 | 88–100 s | Complete constellation, gradual camera orbit, then playback stops |
 
 `timeline.js` is the pure sequence description; `scene.js` constructs and poses the scene; `viewer.js` handles browser loading, camera and controls. The original GLBs remain unchanged. Source hashes, selected tiers and measured source metrics are recorded in `validation-report.json`.
 
 ARC-01 and SOL-88 use their detailed LOD0 masters for this presentation. SOL-88 retains its named original cage/optics clips. HEL-01 uses the two reflector-head meshes from the existing LOD1 heliostat; its planetary pedestal is deliberately omitted from this cinematic orbital adaptation. All 48 heads share two InstancedMesh draws. The loading head is a separate two-draw preview. These are scene derivatives, not replacement game assets or new exported LODs.
 
-The small planet, atmosphere, star field, beam, orbit guides and trails are original procedural presentation geometry. The 140-unit planet, compressed loading/recovery cycles and payload scaling from transport to orbital presentation are art direction. This is not a physical launch/orbit simulation, a full-size clearance certification, or a change to the canonical dimensions of the three asset families. HEL-01s share an illustrative sun-facing orientation; no energy-collection or beam-reflection simulation is claimed. The SOL-88 laser is capped to its original ten-second demonstration window and is hidden before convergence and after firing.
+The larger rotating planet, atmosphere, distant spiral galaxy, star field, beam, orbit guides and trails are original procedural presentation geometry. The 195-unit-radius planet (increased from 140), compressed loading/recovery cycles and payload scaling from transport to orbital presentation are art direction. This is not a physical launch/orbit simulation, a full-size clearance certification, or a change to the canonical dimensions of the three asset families. HEL-01s share an illustrative sun-facing orientation; no energy-collection or beam-reflection simulation is claimed. The SOL-88 laser is capped to its original ten-second demonstration window and is hidden before convergence and after firing.
 
-Validation samples all scene transforms at 0.125-second intervals, camera/payload continuity at segment boundaries, mirror clearance from the planet, increasing deployment counts, beam termination, the ten-second gate, reset and original hashes. A real-model/mocked-renderer viewer test covers loading, chapter jumps, scrub, playback/end/replay, hidden-tab pause and free-camera behavior. Desktop Safari review covers initial launch framing, SOL-88 laser, the growing constellation, and playback through all 48 deployments. Mobile, game integration and sustained reference-device performance remain unmeasured; no FPS claim.
+Validation samples all scene transforms at 0.125-second intervals, camera continuity and visible payload continuity at segment boundaries, vertical launch straightness and constant speed, mirror clearance from the planet, increasing deployment counts, beam termination, the ten-second gate, reset and original hashes. A real-model/mocked-renderer viewer test covers loading, chapter jumps, scrub, playback/end/replay, hidden-tab pause and free-camera behavior. Desktop Safari review covers initial launch framing, SOL-88 laser, the growing constellation, and playback through all 48 deployments. Mobile, game integration and sustained reference-device performance remain unmeasured; no FPS claim.
 
 ```sh
 node tools/asset-pipeline/validate-orbital-cinematic.mjs
@@ -31,4 +31,6 @@ node tools/asset-pipeline/render-orbital-cinematic-poster.mjs
 python3 tools/build-workshop-docs.py
 ```
 
-The poster is a Blender review derivative at 96 seconds. The review GLB is temporary in `/tmp` and not authoritative. The browser adds its own procedural atmosphere, star field and line effects. Hand-off: the commit containing this README plus `orbital-cinematic/` and the three source folders listed in its validation report. Models by jelaludo.
+The poster is a Blender review derivative at 96 seconds. The review GLB is temporary in `/tmp` and not authoritative. The browser adds its own procedural atmosphere, star field and line effects. Its fixed spiral galaxy uses 11,000 procedural point sprites and a soft core; the Blender poster approximates those sprites with tiny emissive triangles. Hand-off: the commit containing this README plus `orbital-cinematic/` and the three source folders listed in its validation report. Models by jelaludo.
+
+The planet and its polar launch site rotate together after 7 seconds at 0.018 radians per second. Released payloads do not inherit that ongoing rotation: each launch freezes its release origin and moves along world +Y at a constant speed (SOL-88: 108 scene units/s; HEL-01: 470, matching the compressed rail acceleration). There is no eased or curved launch-to-orbit path. SOL-88's launch proxy leaves view before its separate orbital reveal; HEL-01 launch proxies appear for 0.85 seconds and their orbital deployments occur five seconds after release. That off-screen insertion is a deliberate cinematic edit, not a simulated maneuver. The fixed distant galaxy supplies a stationary reference behind the rotating planet.

diff --git a/docs/DEVLOG.md b/docs/DEVLOG.md
@@ -32,6 +32,12 @@ Authored asset changes, game integration feedback, and work still to do. Complet
 The game may continue using its own derived far tiers until the new candidates pass game-side review. Those game-side files are separate derivatives, not the authored exports in this library. The game developer's original notes are retained in [ASSET-COLLABORATION.md](../docs/ASSET-COLLABORATION.md).
 
 
+## 25 September 2026 / First Light scale and launch revision
+
+Enlarged the cinematic planet from radius 140 to 195 and adjusted wide framing. Removed eased, curved launch-to-orbit travel: SOL-88 and every HEL-01 now leave in straight vertical, constant-speed shots without slowing at release. Orbital arrivals follow off-screen transfer rather than bending the visible launch. The planet and polar launch site rotate beneath the released payloads; a fixed, original procedural spiral galaxy adds a distant perspective reference.
+
+Added regression checks for launch speed/straightness, planet/site rotation, fixed galaxy placement and visibility in wide shots, while retaining beam, deployment, reset and clearance checks. Updated the review poster and cache versions. Original GLBs are unchanged; dimensions/timing remain cinematic presentation choices. Mobile/device performance review remains pending.
+
 ## 25 September 2026 / First Light orbital cinematic
 
 Added a separate 100-second cinematic tab linked from ARC-01, SOL-88 and the Workshop catalog. Starts with the curved launcher, follows SOL-88 into a small-planet reveal, animates the original Syzygy cages/optics and performs a gated ten-second laser test. Repeated launches then deploy 48 HEL-01 reflector heads into three orbital rings before a final wide camera orbit.

diff --git a/ATTRIBUTIONS.md b/ATTRIBUTIONS.md
@@ -2,7 +2,7 @@
 
 ## First Light cinematic / 25 September 2026
 
-Scene choreography, procedural planet/atmosphere/stars and presentation effects by jelaludo. Reuses the repository's original ARC-01, SOL-88 Syzygy and HEL-01 reflector geometry. The orbital HEL-01 head and rendered poster are presentation derivatives; original GLBs and their dimensions are preserved. No external art, textures or audio embedded.
+Scene choreography, procedural planet/atmosphere/stars/spiral galaxy and presentation effects by jelaludo. Reuses the repository's original ARC-01, SOL-88 Syzygy and HEL-01 reflector geometry. The orbital HEL-01 head and rendered poster are presentation derivatives; original GLBs and their dimensions are preserved. No external art, textures or audio embedded.
 
 
 ## Sentry LOD refresh / 25 September 2026
